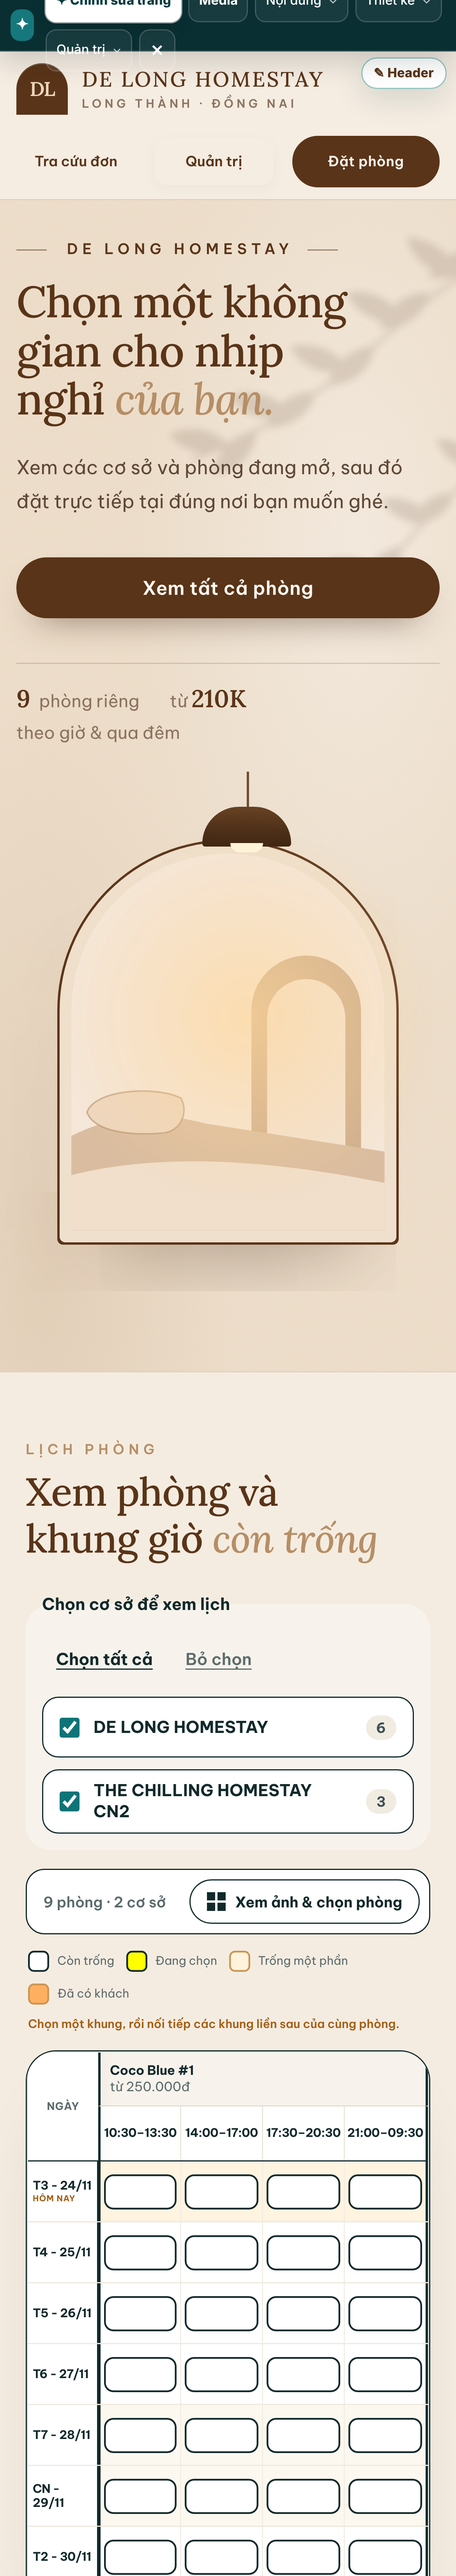
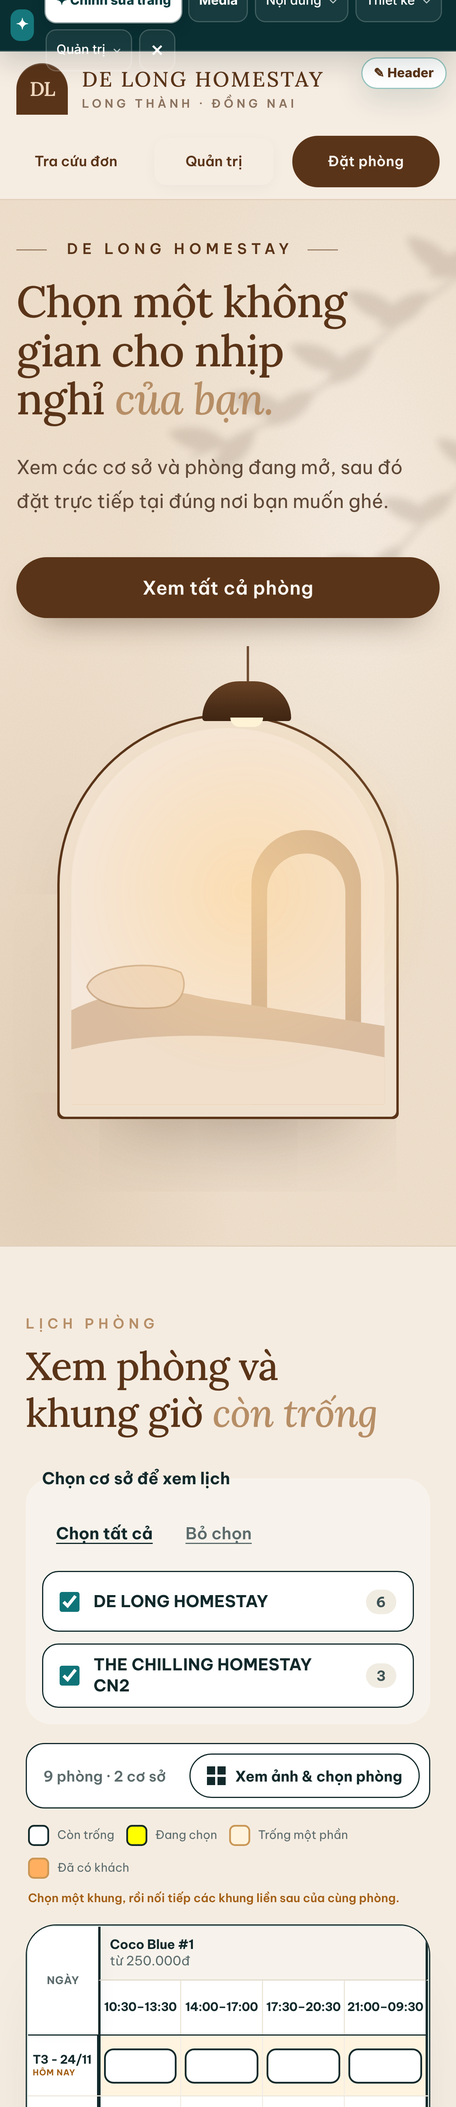
Theme 7: drop the room count / price line under the hero buttons
Claude-Session: https://claude.ai/code/session_0199JtPrYaBn2q49uhWkJt6k

diff --git a/src/DeLong.Web/wwwroot/themes/theme7/theme.css b/src/DeLong.Web/wwwroot/themes/theme7/theme.css
@@ -121,8 +121,6 @@ html body.public-body[data-theme="theme7"] .public-main .public-section-head h2{
 .t7-hero h1{margin:0;max-width:15ch;font:500 clamp(2.5rem,4.8vw,4.6rem)/1.1 var(--t7-serif)!important;letter-spacing:-.02em!important;color:var(--t7-ink);text-wrap:balance}
 .t7-hero-lead{margin:24px 0 0;max-width:42ch;font-size:clamp(1.02rem,1.25vw,1.15rem);line-height:1.75;color:var(--t7-text)}
 .t7-hero-actions{display:flex;flex-wrap:wrap;gap:12px;margin-top:34px}
-.t7-hero-facts{list-style:none;display:flex;flex-wrap:wrap;gap:8px 26px;margin:38px 0 0;padding:20px 0 0;border-top:1px solid color-mix(in srgb,var(--t7-ink) 18%,transparent);color:var(--t7-muted);font-size:.92rem}
-.t7-hero-facts strong{color:var(--t7-ink);font:600 1.3rem/1 var(--t7-serif);margin-right:4px}
 .t7-window{position:relative;margin:0;justify-self:center;width:min(100%,440px);padding-top:28px}
 .t7-window-frame{position:relative;aspect-ratio:5/6;border-radius:999px 999px 10px 10px;overflow:hidden;background:var(--t7-cream);
     box-shadow:0 0 0 10px var(--t7-wall),0 0 0 12px var(--t7-ink),0 40px 80px -40px color-mix(in srgb,var(--t7-deep) 70%,transparent)}
